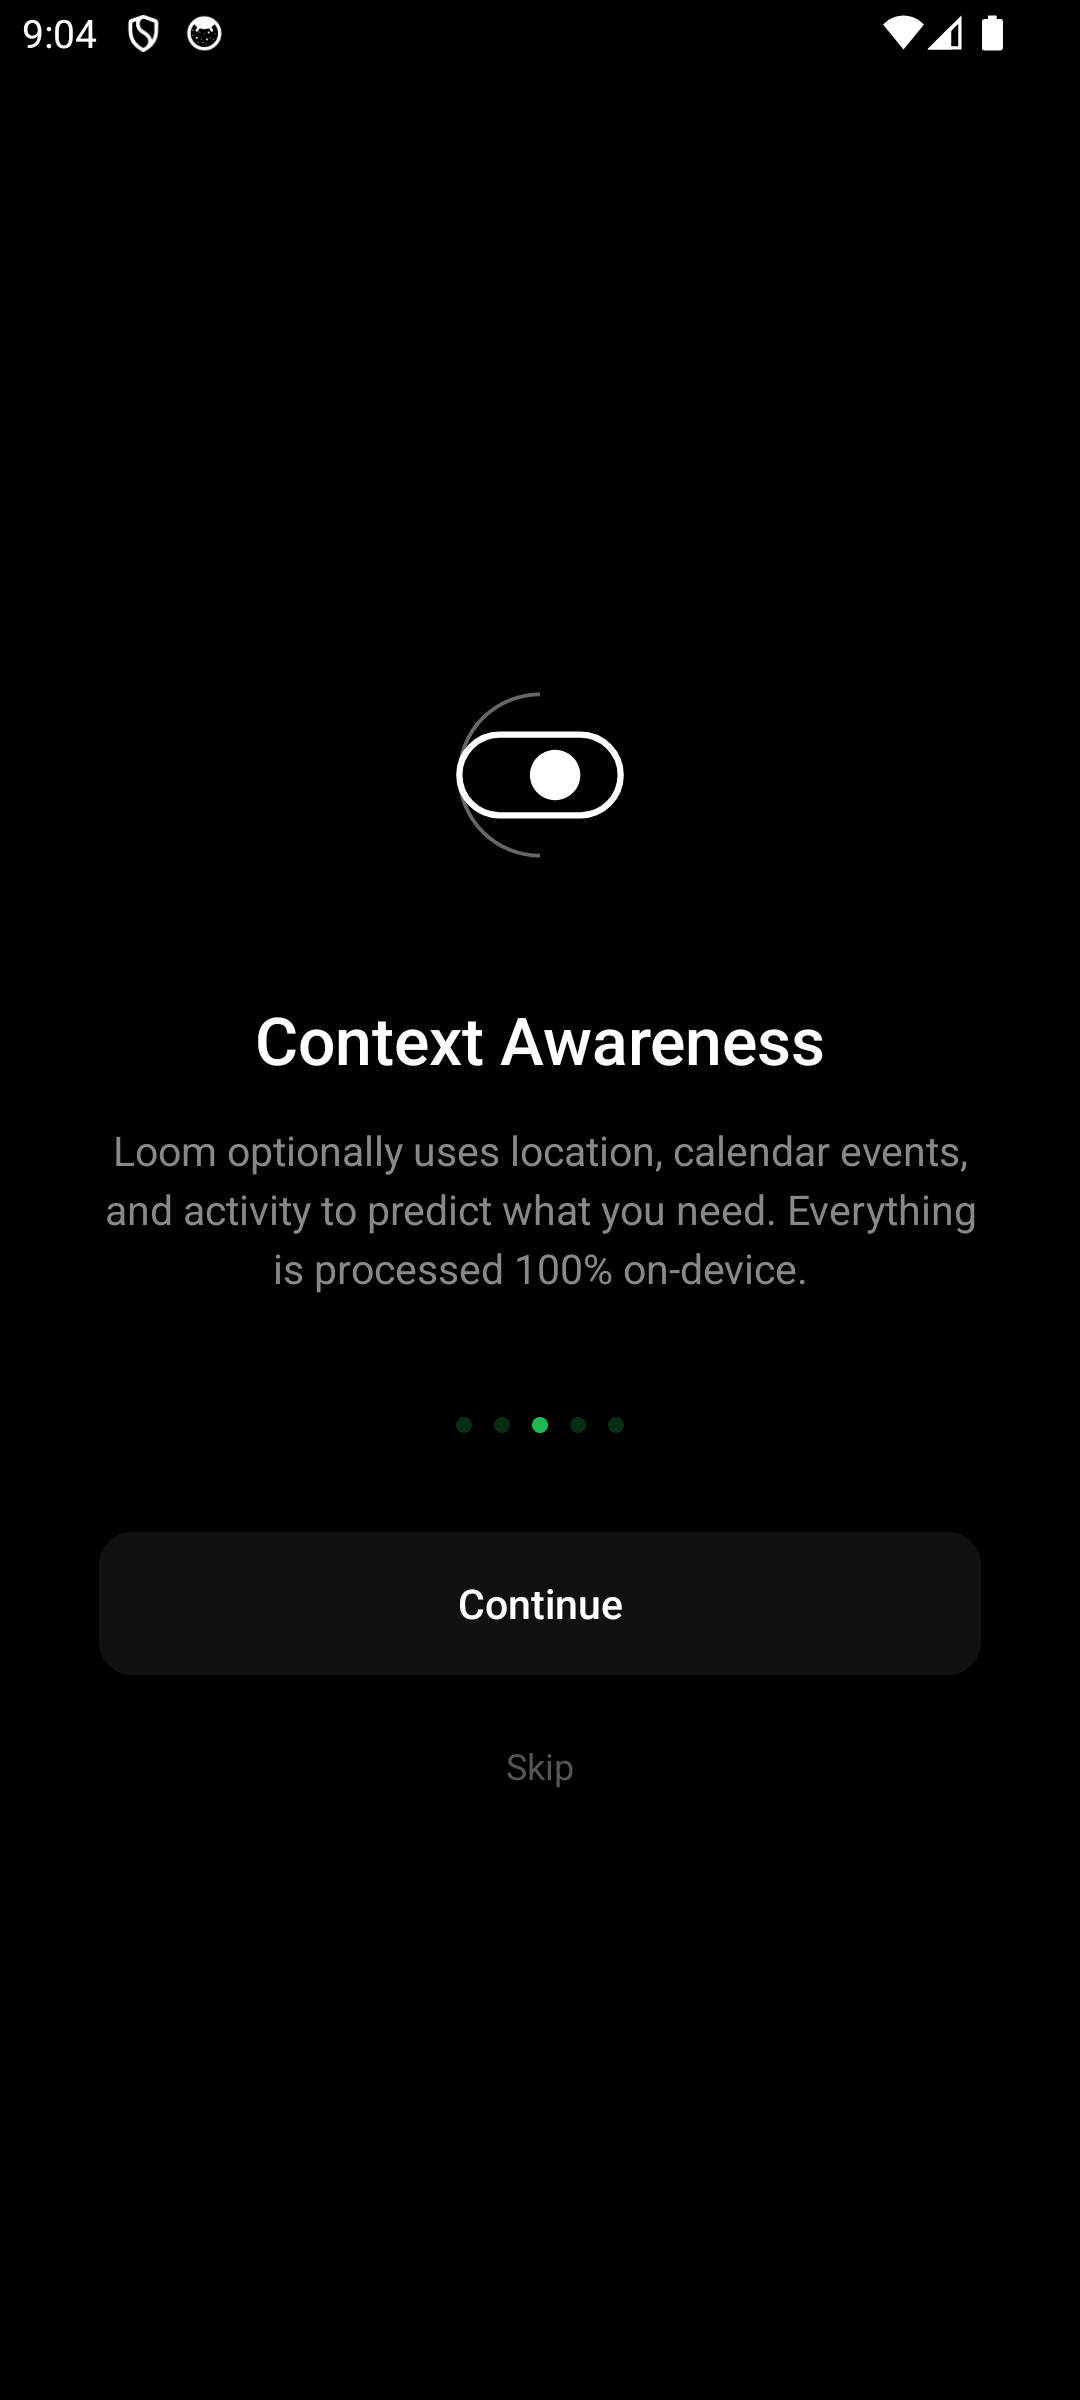
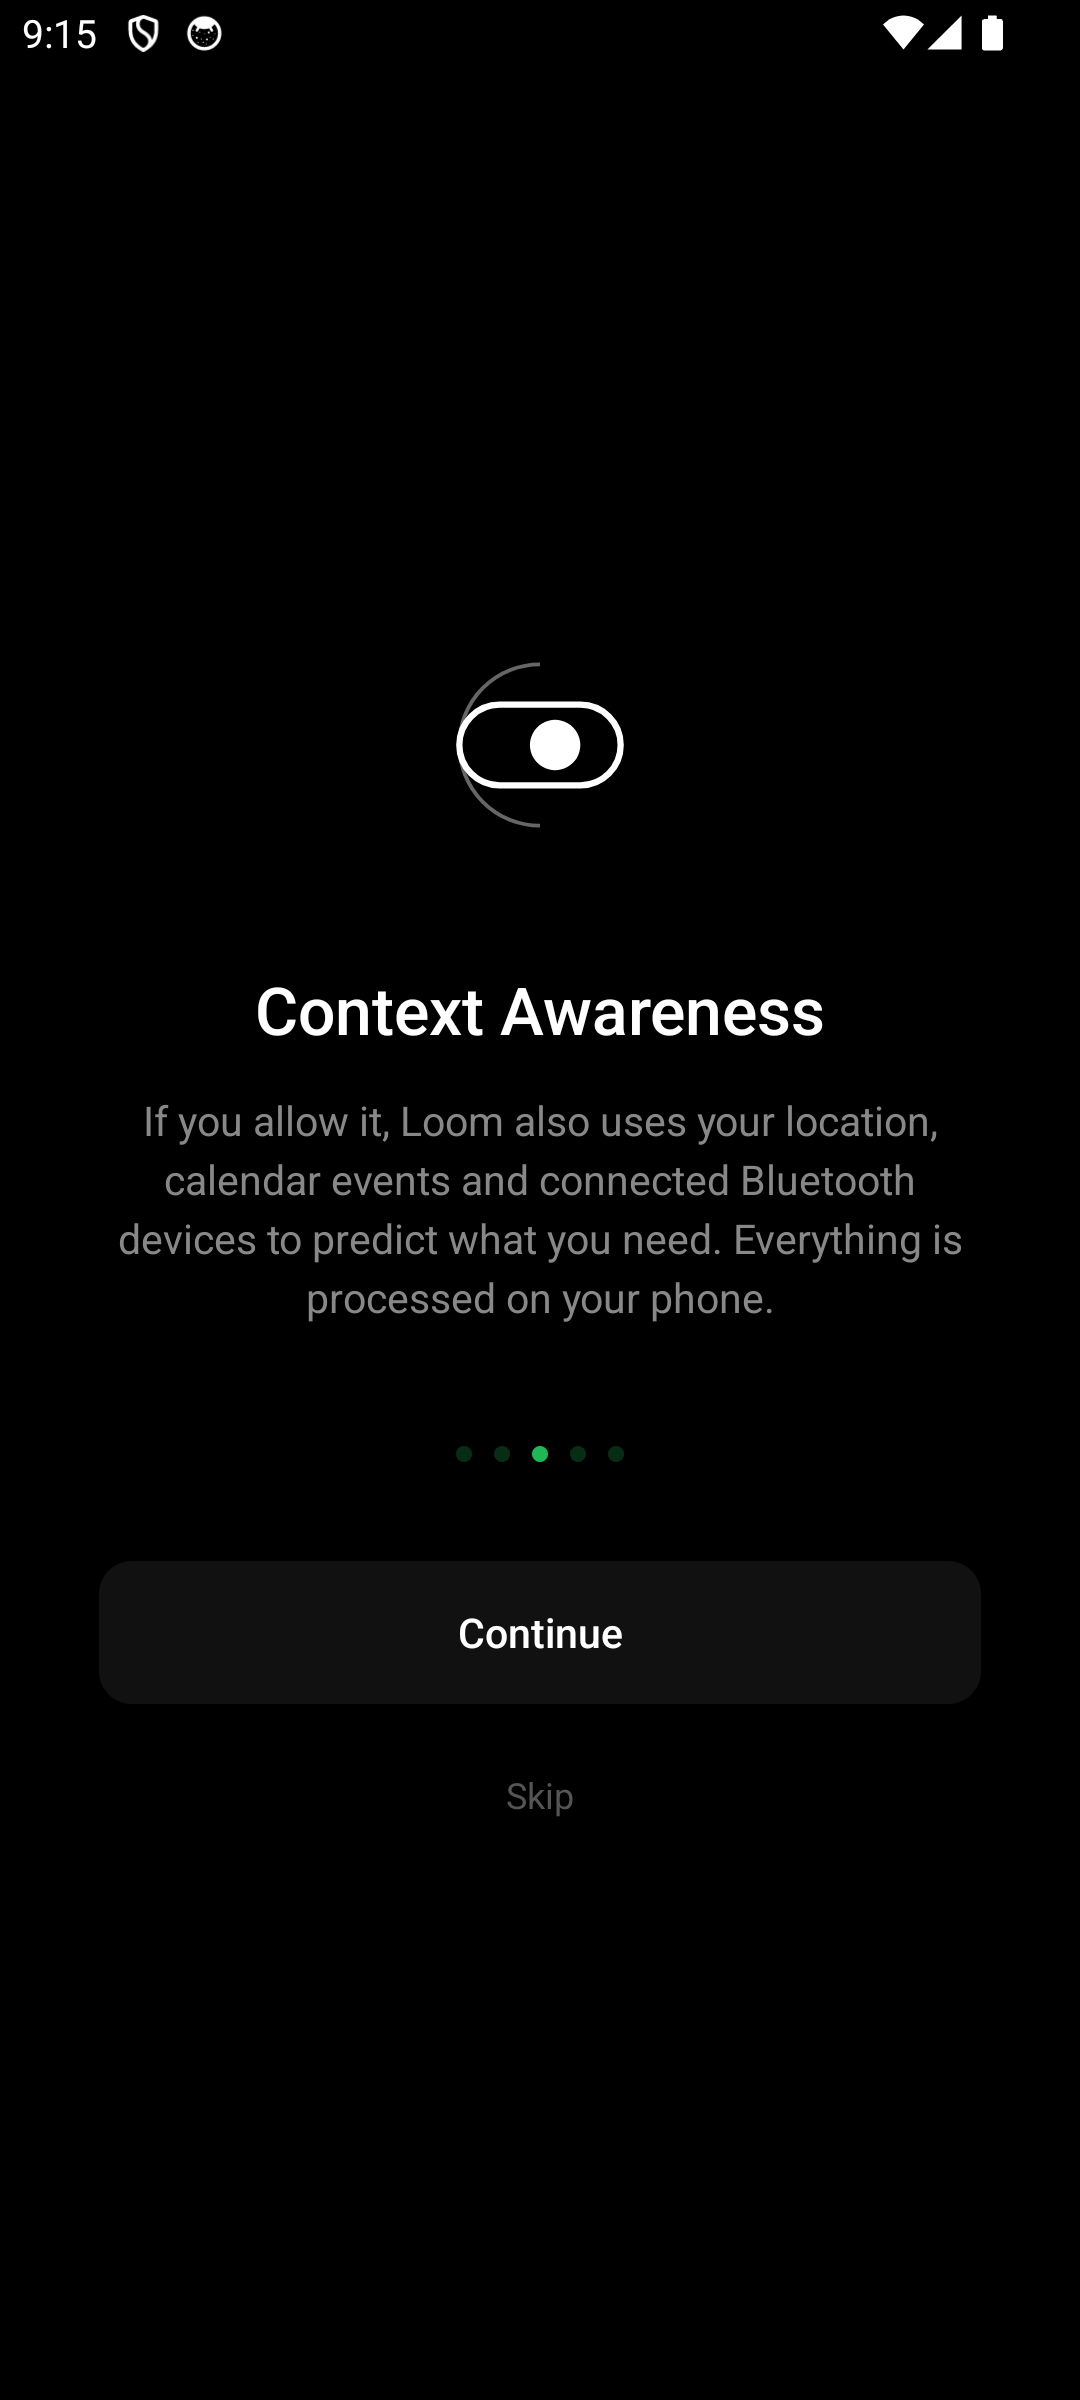
fix: onboarding copy, tile accessibility, fresh-install home, default web search; release 1.3.2
- Onboarding no longer mentions activity detection and no longer promises
  "nothing sent, ever" (opt-in stats may come later). Closes #2, closes #3
- Home tiles get the app name as content description for TalkBack. Closes #4
- With little history, home fills up to 12 tiles with unlaunched apps
  instead of collapsing to the apps launched so far. Closes #5
- README FAQ explains why the app you just closed drops for ~70 s. Closes #6
- No-match search: "Search the web" uses ACTION_WEB_SEARCH (default search
  app) and the Gemini fallback no longer hardcodes gemini.google.com, both
  flagged as tracking hostnames by the F-Droid scanner
- README screenshots show the current icon grid

diff --git a/app/src/main/kotlin/com/yrolland/loom/SearchFallback.kt b/app/src/main/kotlin/com/yrolland/loom/SearchFallback.kt
@@ -1,9 +1,8 @@
 package com.yrolland.loom
 
+import android.app.SearchManager
 import android.content.Context
 import android.content.Intent
-import android.net.Uri
-import java.net.URLEncoder
 
 object SearchFallback {
 
@@ -15,12 +14,16 @@ object SearchFallback {
         if (trimmed.isNotEmpty()) {
             return fullList.filter { FuzzyMatcher.matches(trimmed, it.label) }
         }
-        val launched = fullList.filter { it.launchCount > 0 }
-        return if (launched.isNotEmpty()) launched else fullList
+        // Launched apps first; while history is short, fill the screen with the rest so a new user isn't left with one icon.
+        val (launched, rest) = fullList.partition { it.launchCount > 0 }
+        return launched + rest.take((HOME_MIN_TILES - launched.size).coerceAtLeast(0))
     }
 
-    fun buildChromeUrl(query: String): String =
-        "https://www.google.com/search?q=" + URLEncoder.encode(query, "UTF-8")
+    const val HOME_MIN_TILES = 12
+
+    /** Hands the query to the user's default search app instead of a hardcoded engine. */
+    fun createWebSearchIntent(query: String): Intent =
+        Intent(Intent.ACTION_WEB_SEARCH).putExtra(SearchManager.QUERY, query)
 
     fun buildGeminiPrompt(query: String): String =
         "Tell me about $query"
@@ -39,20 +42,11 @@ object SearchFallback {
         return if (isCallable) {
             directIntent
         } else {
-            val genericSendIntent = Intent(Intent.ACTION_SEND).apply {
+            // No Gemini app: let the user pick any app that accepts text.
+            Intent.createChooser(Intent(Intent.ACTION_SEND).apply {
                 type = "text/plain"
                 putExtra(Intent.EXTRA_TEXT, prompt)
-            }
-            val genericCallable = runCatching {
-                context.packageManager.queryIntentActivities(genericSendIntent, 0).isNotEmpty()
-            }.getOrDefault(false)
-
-            if (genericCallable) {
-                genericSendIntent
-            } else {
-                val webUrl = "https://gemini.google.com/app?q=" + URLEncoder.encode(prompt, "UTF-8")
-                Intent(Intent.ACTION_VIEW, Uri.parse(webUrl))
-            }
+            }, null)
         }
     }
 }

diff --git a/app/src/test/kotlin/com/yrolland/loom/SearchFallbackTest.kt b/app/src/test/kotlin/com/yrolland/loom/SearchFallbackTest.kt
@@ -24,12 +24,6 @@ class SearchFallbackTest {
     }
 
     @Test
-    fun `buildChromeUrl formats search query correctly`() {
-        val url = SearchFallback.buildChromeUrl("quantum computing")
-        assertEquals("https://www.google.com/search?q=quantum+computing", url)
-    }
-
-    @Test
     fun `buildGeminiPrompt formats pre-prompt correctly`() {
         val prompt = SearchFallback.buildGeminiPrompt("quantum computing")
         assertEquals("Tell me about quantum computing", prompt)
@@ -47,14 +41,23 @@ class SearchFallbackTest {
     }
 
     @Test
-    fun `filterApps returns only launched apps when query is empty and some apps have launch count`() {
-        val app1 = AppEntry("com.app.one", "Alpha", 1f, launchCount = 5, lastLaunchedMillis = 1000L)
-        val app2 = AppEntry("com.app.two", "Beta", 0f, launchCount = 0, lastLaunchedMillis = null)
-        val fullList = listOf(app1, app2)
+    fun `filterApps keeps unlaunched apps after launched ones while history is short`() {
+        val unlaunchedFirst = AppEntry("com.app.two", "Beta", 0f, launchCount = 0, lastLaunchedMillis = null)
+        val launched = AppEntry("com.app.one", "Alpha", 1f, launchCount = 5, lastLaunchedMillis = 1000L)
 
-        val result = SearchFallback.filterApps(fullList, "")
-        assertEquals(1, result.size)
-        assertEquals(listOf(app1), result)
+        val result = SearchFallback.filterApps(listOf(unlaunchedFirst, launched), "")
+        assertEquals(listOf(launched, unlaunchedFirst), result)
+    }
+
+    @Test
+    fun `filterApps shows only launched apps once they fill the home screen`() {
+        val launched = (1..SearchFallback.HOME_MIN_TILES).map {
+            AppEntry("com.launched.$it", "L$it", 1f, launchCount = 1, lastLaunchedMillis = 1000L)
+        }
+        val unlaunched = AppEntry("com.app.none", "Zeta", 0f, launchCount = 0, lastLaunchedMillis = null)
+
+        val result = SearchFallback.filterApps(launched + unlaunched, "")
+        assertEquals(launched, result)
     }
 
     @Test

diff --git a/app/src/main/kotlin/com/yrolland/loom/OnboardingContent.kt b/app/src/main/kotlin/com/yrolland/loom/OnboardingContent.kt
@@ -20,7 +20,7 @@ object OnboardingContent {
         ),
         OnboardingStep(
             title = "Context Awareness",
-            subtitle = "Loom optionally uses location, calendar events, and activity to predict what you need. Everything is processed 100% on-device.",
+            subtitle = "If you allow it, Loom also uses your location, calendar events and connected Bluetooth devices to predict what you need. Everything is processed on your phone.",
             iconRes = R.drawable.ic_onboarding_permissions
         ),
         OnboardingStep(
@@ -29,8 +29,8 @@ object OnboardingContent {
             iconRes = R.drawable.ic_onboarding_search
         ),
         OnboardingStep(
-            title = "Zero Tracking. 100% Private",
-            subtitle = "Loom operates completely offline. No accounts, no data sent to servers, no ads, ever.",
+            title = "Private by Default",
+            subtitle = "Loom works offline: no account, no ads, nothing sent anywhere. If anonymous usage stats are added one day to improve the ranking, they will stay off unless you turn them on.",
             iconRes = R.drawable.ic_onboarding_privacy
         )
     )

diff --git a/app/src/main/kotlin/com/yrolland/loom/MainActivity.kt b/app/src/main/kotlin/com/yrolland/loom/MainActivity.kt
@@ -81,13 +81,7 @@ class MainActivity : AppCompatActivity() {
         btnOpenChrome.setOnClickListener {
             val query = search.text?.toString()?.trim().orEmpty()
             if (query.isNotEmpty()) {
-                val url = SearchFallback.buildChromeUrl(query)
-                val intent = android.content.Intent(android.content.Intent.ACTION_VIEW, android.net.Uri.parse(url)).apply {
-                    setPackage("com.android.chrome")
-                }
-                runCatching { startActivity(intent) }.onFailure {
-                    startActivity(android.content.Intent(android.content.Intent.ACTION_VIEW, android.net.Uri.parse(url)))
-                }
+                runCatching { startActivity(SearchFallback.createWebSearchIntent(query)) }
             }
         }
 

diff --git a/app/src/main/kotlin/com/yrolland/loom/AppAdapter.kt b/app/src/main/kotlin/com/yrolland/loom/AppAdapter.kt
@@ -65,6 +65,7 @@ class AppAdapter(
         }
 
         holder.label.text = entry.label
+        holder.itemView.contentDescription = entry.label // tiles show no text, so screen readers need this
 
         // Use pre-computed rank so filtered lists (search) keep original sizes
         val relScore = entry.rank

diff --git a/docs/testing/NON_REGRESSION.md b/docs/testing/NON_REGRESSION.md
@@ -2,12 +2,12 @@
 
 Manual end-to-end checks to run before every release. Each test lists the steps, the expected result and a reference screenshot in [screenshots/](screenshots/).
 
-**Last run:** 2026-10-14, v1.3.1 (versionCode 4), signed release APK, Android emulator `test_avd` (1080x2400, API 36). Result: all tests pass. Issues found are listed at the end.
+**Last run:** 2026-10-14, v1.3.2 (versionCode 5), signed release APK, Android emulator `test_avd` (1080x2400, API 36). Result: all tests pass. The first run (v1.3.1) found the issues listed at the end; all are fixed in 1.3.2 and re-checked.
 
 ## Setup
 
 ```bash
-./gradlew test assembleRelease          # unit tests (36) + release APK
+./gradlew test assembleRelease          # unit tests + release APK
 adb install -r app/build/outputs/apk/release/app-release.apk
 adb shell cmd package set-home-activity com.yrolland.loom/.MainActivity
 adb logcat -c                            # so crashes from this run are easy to spot
@@ -23,9 +23,9 @@ After the run: `adb logcat -d -b crash` must be empty.
 |---|---|---|---|
 | A1 | `adb shell pm clear com.yrolland.loom`, press Home | Onboarding page 1 "Welcome to Loom" with Continue and Skip | `01_onboarding_step1.png` |
 | A2 | Tap Continue | Page 2 "Smart Ranking" | `02_onboarding_step2.png` |
-| A3 | Tap Continue | Page 3 "Context Awareness" (lists the optional signals) | `03_onboarding_step3.png` |
+| A3 | Tap Continue | Page 3 "Context Awareness" lists exactly the optional signals: location, calendar events, connected Bluetooth devices (no "activity") | `03_onboarding_step3.png` |
 | A4 | Tap Continue | Page 4 "Swipe Down to Search" | `04_onboarding_step4.png` |
-| A5 | Tap Continue | Page 5 privacy page, button reads "Get Started" | `05_onboarding_step5.png` |
+| A5 | Tap Continue | Page 5 "Private by Default": offline today, future anonymous stats only if the user turns them on (no "ever"). Button reads "Get Started" | `05_onboarding_step5.png` |
 | A6 | Tap Get Started | System permission prompts: location, calendar, nearby devices. No activity-recognition prompt (removed in 1.3.1) | `06_onboarding_step6.png` |
 | A7 | Deny every prompt | Home shows every installed app, dimmed (nothing learned yet). No crash | `07_home_fresh_all_permissions_denied.png` |
 
@@ -34,7 +34,9 @@ After the run: `adb logcat -d -b crash` must be empty.
 | # | Steps | Expected | Screenshot |
 |---|---|---|---|
 | B1 | Tap a tile | The app opens (check `dumpsys window` focus) | |
-| B2 | Press Home after the first launch on a fresh install | Home shows only apps launched at least once (see issue on this behavior) | `08_home_after_first_launch.png` |
+| B2 | Press Home after the first launch on a fresh install | The launched app comes first, followed by other apps up to 12 tiles (not a single icon) | `08_home_after_first_launch.png` |
+| B3 | Use a dozen apps a few times each, wait 75 s, go Home | Grid shows only launched apps, most likely ones first | `09_home_with_history.png` |
+| B4 | `uiautomator dump` on home | Every tile has a content description equal to the app name (TalkBack reads it) | |
 
 ## C. Search
 
@@ -43,7 +45,9 @@ After the run: `adb logcat -d -b crash` must be empty.
 | C1 | Swipe down on the grid | Search field appears with "Search apps…" and keyboard | `30_search_open.png` |
 | C2 | Type `clo` | Grid filters to matching apps (Clock) | `31_search_filtered_clo.png` |
 | C3 | Press Enter | The top match (Clock) opens | |
-| C4 | Search `zzqxw` | No results; "Open in Chrome" and "Open in Gemini" buttons appear | `32_search_empty_state_fallbacks.png` |
+| C4 | Search `zzqxw` | No results; "Search the web" and "Ask Gemini (Google)" buttons appear | `32_search_empty_state_fallbacks.png` |
+| C4b | Tap "Search the web" | The default web search app opens with the query (no hardcoded engine) | |
+| C4c | Tap "Ask Gemini (Google)" | Gemini app if installed, otherwise the system share sheet | |
 | C5 | Press Back twice | Keyboard closes, then search field hides; still on Loom | |
 
 ## D. Long-press menu
@@ -75,9 +79,9 @@ After the run: `adb logcat -d -b crash` must be empty.
 | F1 | From a state where only Settings has history, open Camera once and Clock 3 times via search, then go Home right away | Order changes. Clock (just closed) is ranked last: the "self penalty" pushes the app you just left down for about 70 s (`ScoreEngine.kt`, `SELF_PENALTY`, `SESSION_MS`) | `20_learning_after_launches.png` |
 | F2 | Wait 75 s, open and close Loom settings to refresh | Clock (3 launches) is now first, then Camera, then Settings | `21_learning_after_session_gap.png` |
 
-Read the order with a long-press on each tile (tiles have no visible or accessible label, see issues).
+Read the order from the tiles' content descriptions (`uiautomator dump`), or with a long-press on each tile.
 
-## Issues found on 2026-10-14
+## Issues found on 2026-10-14 (all fixed in 1.3.2)
 
 1. [#2](https://github.com/TidyMaze/loom/issues/2) Onboarding page 3 still mentions "activity", which was removed in 1.3.1.
 2. [#3](https://github.com/TidyMaze/loom/issues/3) Onboarding page 5 says "no data sent to servers ... ever", which conflicts with the planned opt-in usage stats.

diff --git a/docs/STATUS.md b/docs/STATUS.md
@@ -2,11 +2,12 @@
 
 ## App
 
-- **Version:** v1.3.1 (versionCode 4), released 2026-10-14 on [GitHub](https://github.com/TidyMaze/loom/releases/tag/v1.3.1). Signed APK 790 KB, plus an AAB for the Play Store.
+- **Version:** v1.3.2 (versionCode 5), released 2026-10-14 on [GitHub](https://github.com/TidyMaze/loom/releases/tag/v1.3.2). Signed APK 790 KB, plus an AAB for the Play Store.
+- **What changed in 1.3.2:** fixes the 5 issues from the first test run (#2 to #6), web search goes to the default search app instead of a hardcoded google.com URL, Gradle wrapper checksum added (both flagged by the F-Droid scanner).
 - **What changed in 1.3.1:** Google Play Services removed (activity recognition was logged but never used by the ranking), so the app is fully free software and eligible for F-Droid. The `ACTIVITY_RECOGNITION` permission is gone.
 - **Privacy:** no INTERNET permission, everything on the device. Anonymous usage stats may come later, opt-in only.
 - **Tests:** 36 unit tests green. Full manual end-to-end run on an emulator passed, see [testing/NON_REGRESSION.md](testing/NON_REGRESSION.md) and its screenshots. The ranking still learns: after 3 launches, Clock moves to first place once the 70 s session window has passed.
-- **Known issues:** 6 found during the test run, all filed on [GitHub Issues](https://github.com/TidyMaze/loom/issues). The most visible: home collapses to a single icon after the first launch on a fresh install, and tiles have no accessible label for screen readers.
+- **Known issues:** the 6 found during the first test run are fixed and closed on [GitHub Issues](https://github.com/TidyMaze/loom/issues).
 - **Stage:** early alpha, built largely with an AI coding assistant, ranking tuned on one person's data so far.
 
 ## Communication plan

diff --git a/README.md b/README.md
@@ -136,6 +136,9 @@ Contributions, feature requests, and bug reports are welcome!
 ### Why no app names, badges or widgets?
 Loom started as a text-only list and moved to an icon grid in August 2026. What it still leaves out is everything that pulls at your attention: notification badges, widgets, folders and labels. Unused apps stay dimmed, and the ones you're likely to need now are brighter and at the top.
 
+### Why did the app I just closed drop to the bottom?
+On purpose. For about 70 seconds after you leave an app, Loom assumes you're unlikely to reopen it right away and pushes it down to make room for what you'll probably open next. After that window it goes back to its normal place, which reflects how often and when you use it.
+
 ### How does the ranking engine learn without internet access?
 Everything runs on-device using a lightweight Kotlin scoring engine. When you open an app, Loom logs the timestamp and previous app in a JSON file in the app's private storage (other apps can't read it). The math uses exponential decay and Gaussian time-of-day kernels. Today nothing leaves your phone; anonymous usage stats may come later, opt-in only.
 
